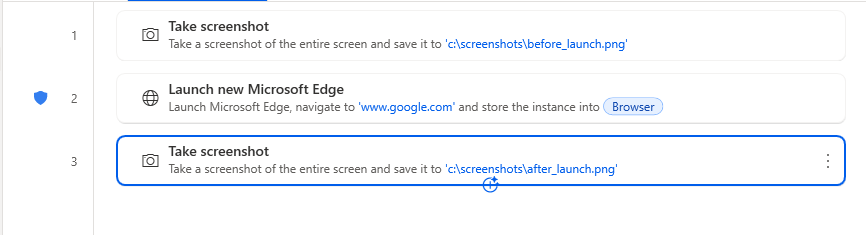
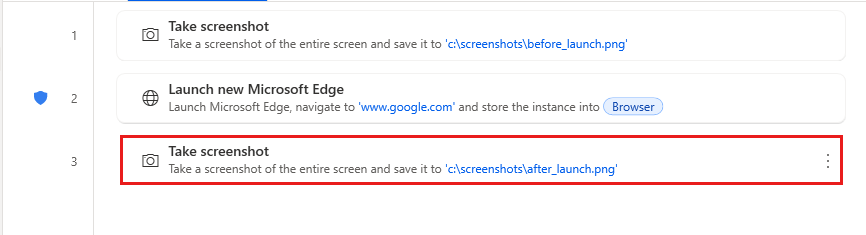
formatting the images

Changed region(s): [[0.1247, 0.566, 0.9977, 0.834]]

diff --git a/support/power-platform/power-automate/desktop-flows/troubleshoot-unattended-runs-with-screenshots.md b/support/power-platform/power-automate/desktop-flows/troubleshoot-unattended-runs-with-screenshots.md
@@ -81,7 +81,7 @@ In some cases, such as when using a virtual machine (VM) or Hyper-V, the display
 
 1. Copy and paste the following code snippet into the [Power Automate desktop flow designer](/power-automate/desktop-flows/flow-designer).
 
-    ```c#
+    ```csharp
     DateTime.GetCurrentDateTime.Local DateTimeFormat: DateTime.DateTimeFormat.DateAndTime CurrentDateTime=> CurrentDateTime
     Text.ConvertDateTimeToText.FromCustomDateTime DateTime: CurrentDateTime CustomFormat: $'''yyyy_MM_dd_hh_mm_ss''' Result=> FormattedDateTime
     Workstation.GetScreenResolution MonitorNumber: 1 MonitorWidth=> MonitorWidth MonitorHeight=> MonitorHeight MonitorBitCount=> MonitorBitCount MonitorFrequency=> MonitorFrequency
